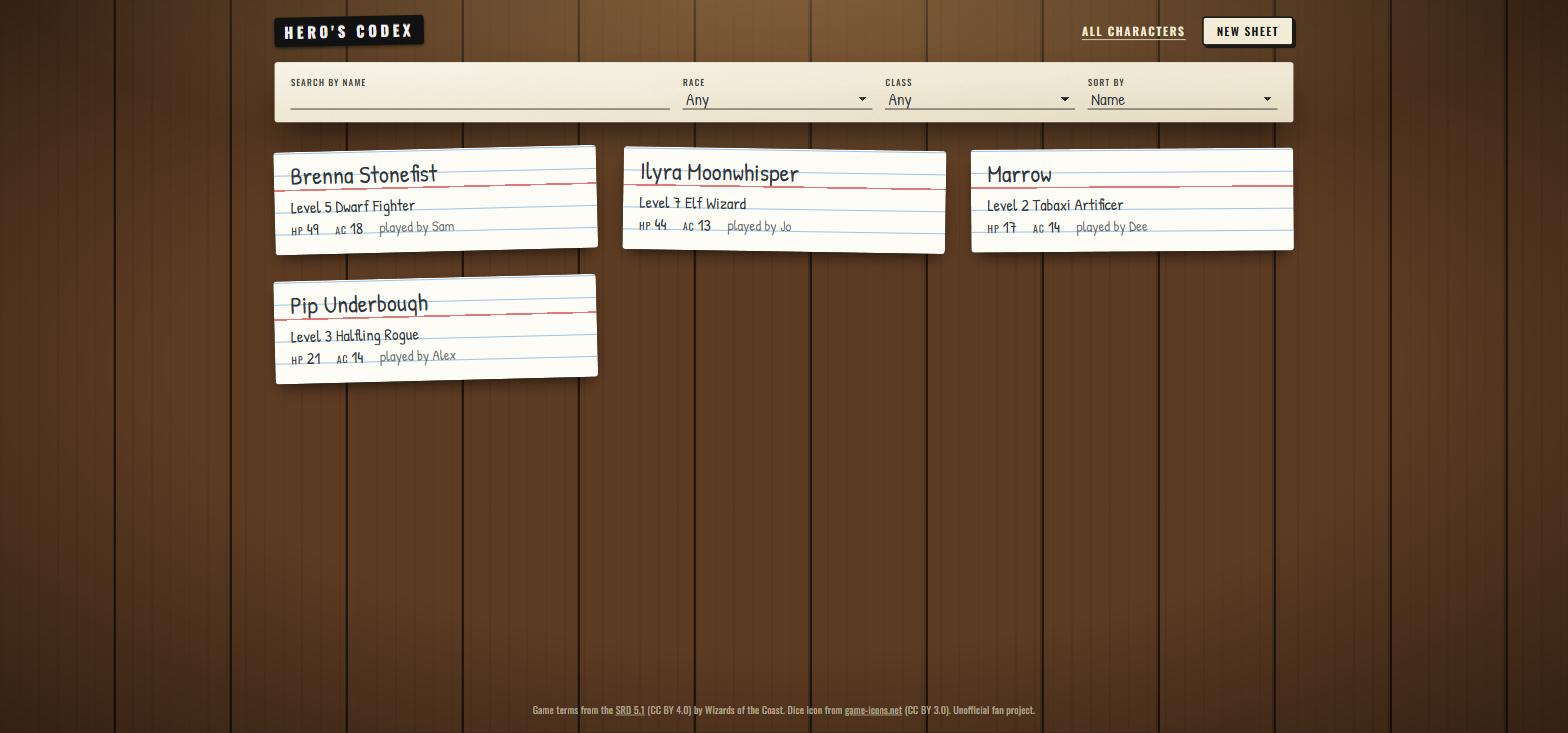
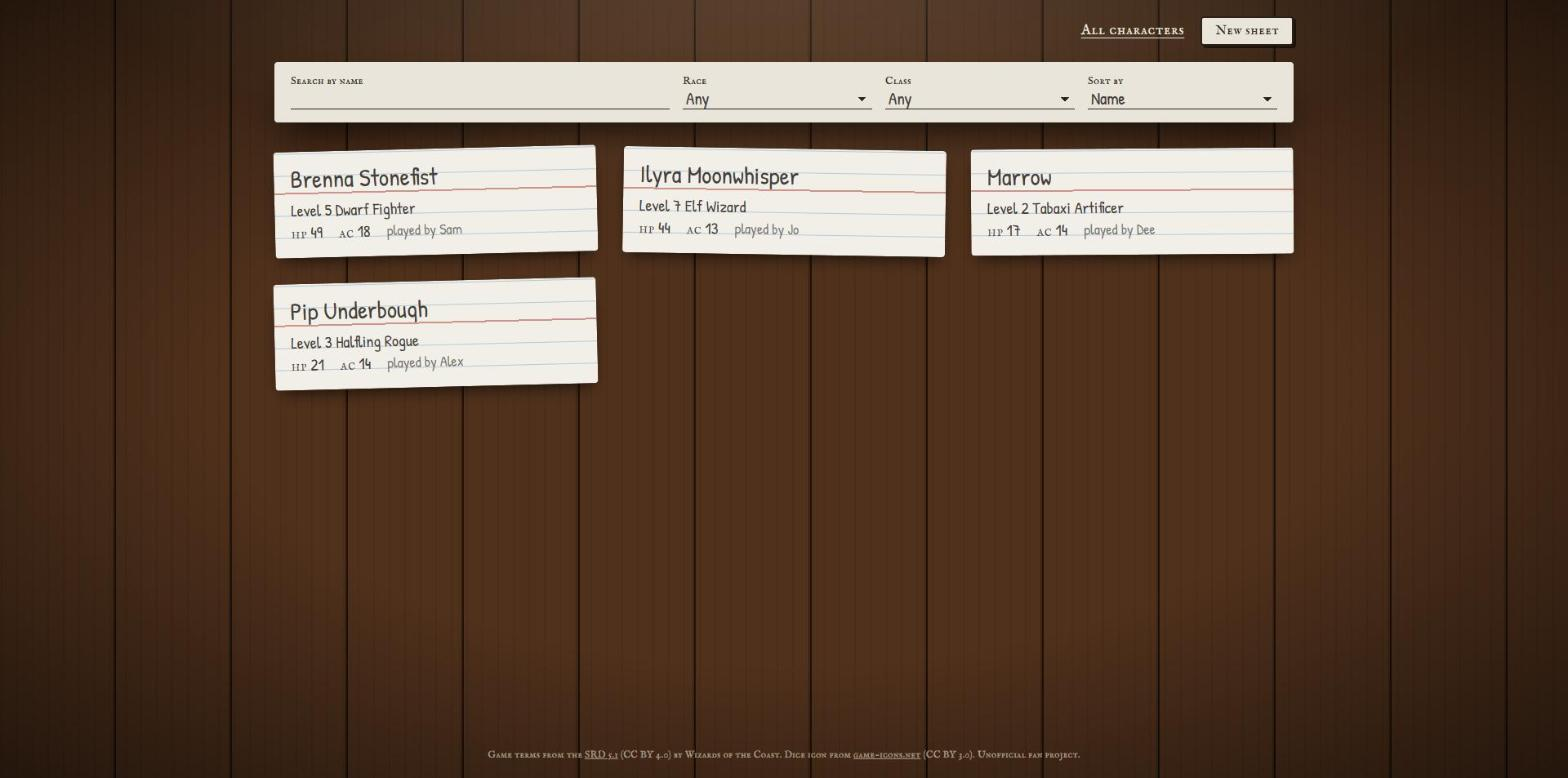
Drop the Hero's Codex name and retake the screenshots
The tab title and README now say "D&D Character Sheets", the deployment
guide uses the real Vercel URL, and the screenshots show the plain
paper look. Service names like heros-codex-api stay, since the live
deployment uses them.

Changed region(s): [[0.0938, 0.0, 0.9062, 0.5402], [0.3125, 0.9604, 0.6875, 0.9905]]

diff --git a/frontend/index.html b/frontend/index.html
@@ -3,7 +3,7 @@
   <head>
     <meta charset="UTF-8" />
     <meta name="viewport" content="width=device-width, initial-scale=1.0" />
-    <title>Hero's Codex · D&amp;D Character Sheets</title>
+    <title>D&amp;D Character Sheets</title>
     <meta
       name="description"
       content="Fill in and keep D&amp;D 5e character sheets online, roll dice from the sheet and print it."

diff --git a/docs/DEPLOYMENT.md b/docs/DEPLOYMENT.md
@@ -1,12 +1,12 @@
-# Hosting Hero's Codex online
+# Hosting the app online
 
-How to deploy Hero's Codex on free hosting tiers. The first deploy takes roughly an hour.
+How to deploy the app on free hosting tiers. The first deploy takes roughly an hour.
 
 ## The setup
 
 ```mermaid
 flowchart LR
-  B[Visitor's browser] -->|https://heros-codex.vercel.app| V[Vercel<br/>React app + /api proxy]
+  B[Visitor's browser] -->|https://dnd-character-project.vercel.app| V[Vercel<br/>React app + /api proxy]
   V -->|/api/* rewrite| R[Render<br/>Express API]
   R --> A[(MongoDB Atlas<br/>free M0 cluster)]
 ```
@@ -16,7 +16,7 @@ flowchart LR
 | Web app | **Vercel** (Hobby) | Free | Serves the built React app and proxies `/api` to Render |
 | API | **Render** (Free web service) | Free | Runs the Express API, configured by `render.yaml` |
 | Database | **MongoDB Atlas** (M0) | Free | 512 MB, which is plenty for this app |
-| Custom domain | Any registrar (optional) | ~£10/year | Only if you want e.g. `heroscodex.dev` |
+| Custom domain | Any registrar (optional) | ~£10/year | Only if you want your own address instead of `*.vercel.app` |
 
 The browser only talks to the Vercel address, and Vercel forwards `/api/*` requests to Render, so no CORS configuration is needed.
 
@@ -61,7 +61,7 @@ Render's free tier sleeps after 15 minutes without traffic, and the next request
 2. **New → Blueprint** → select the repo. Render reads `render.yaml` and proposes a service named **heros-codex-api**.
 3. Fill in the values it asks for:
    - `MONGODB_URI`: the Atlas string from Step 1.
-   - `CORS_ORIGIN`: put `https://heros-codex.vercel.app` for now; you will confirm it in Step 4. (It's only used if something calls the API directly instead of through Vercel.)
+   - `CORS_ORIGIN`: put `https://<vercel-project-name>.vercel.app` for now; you will confirm it in Step 4. (It's only used if something calls the API directly instead of through Vercel.)
 4. **Apply**. The first build takes a few minutes. When it is live, open
    `https://heros-codex-api.onrender.com/api/health`: it should show `{"status":"ok"}`.
    - If Render gave the service a different URL (e.g. `heros-codex-api-ab12.onrender.com`), note it for Step 3.
@@ -78,7 +78,7 @@ Render's free tier sleeps after 15 minutes without traffic, and the next request
 2. Sign up at <https://vercel.com> with GitHub → **Add New… → Project** → import the repo.
 3. Set **Root Directory** to `frontend`. Leave the framework and commands alone: `frontend/vercel.json` already sets them (it installs from the repo root so the shared package is included).
 4. **Do not** set `VITE_API_URL`; the proxy makes it unnecessary.
-5. **Deploy**. Vercel shows your URL, for example `https://heros-codex.vercel.app`. You can rename the project under *Settings → General* to get a nicer address.
+5. **Deploy**. Vercel shows your URL, for example `https://dnd-character-project.vercel.app`. You can rename the project under *Settings → General* to get a nicer address.
 
 ## Step 4: Connect and check
 

diff --git a/README.md b/README.md
@@ -1,4 +1,4 @@
-# Hero's Codex
+# D&D Character Sheets
 
 An online D&D 5th Edition character sheet that looks and feels like filling in a paper one. You write your character's details straight onto the sheet, keep a pile of characters as index cards, roll dice from the sheet, and print it when you need a paper copy.
 
